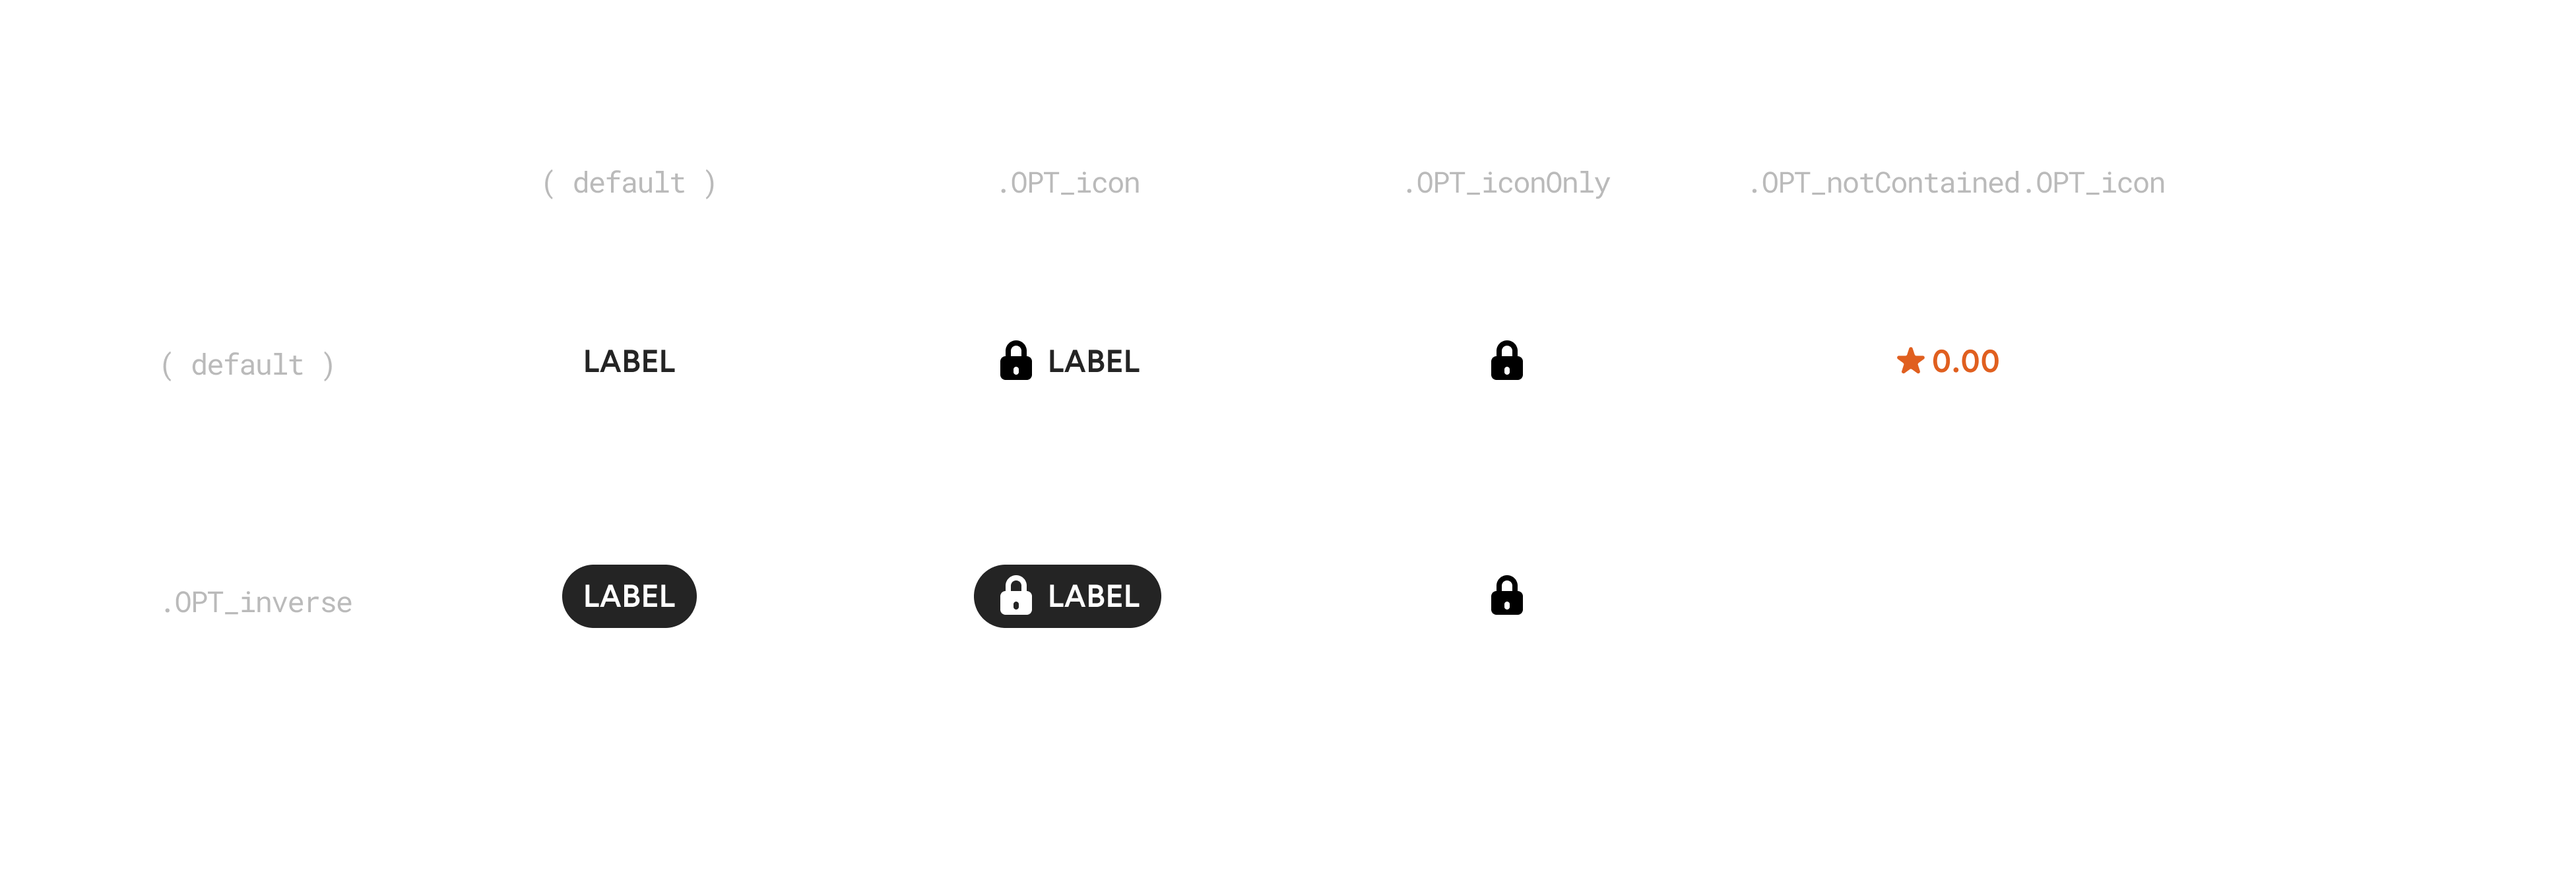
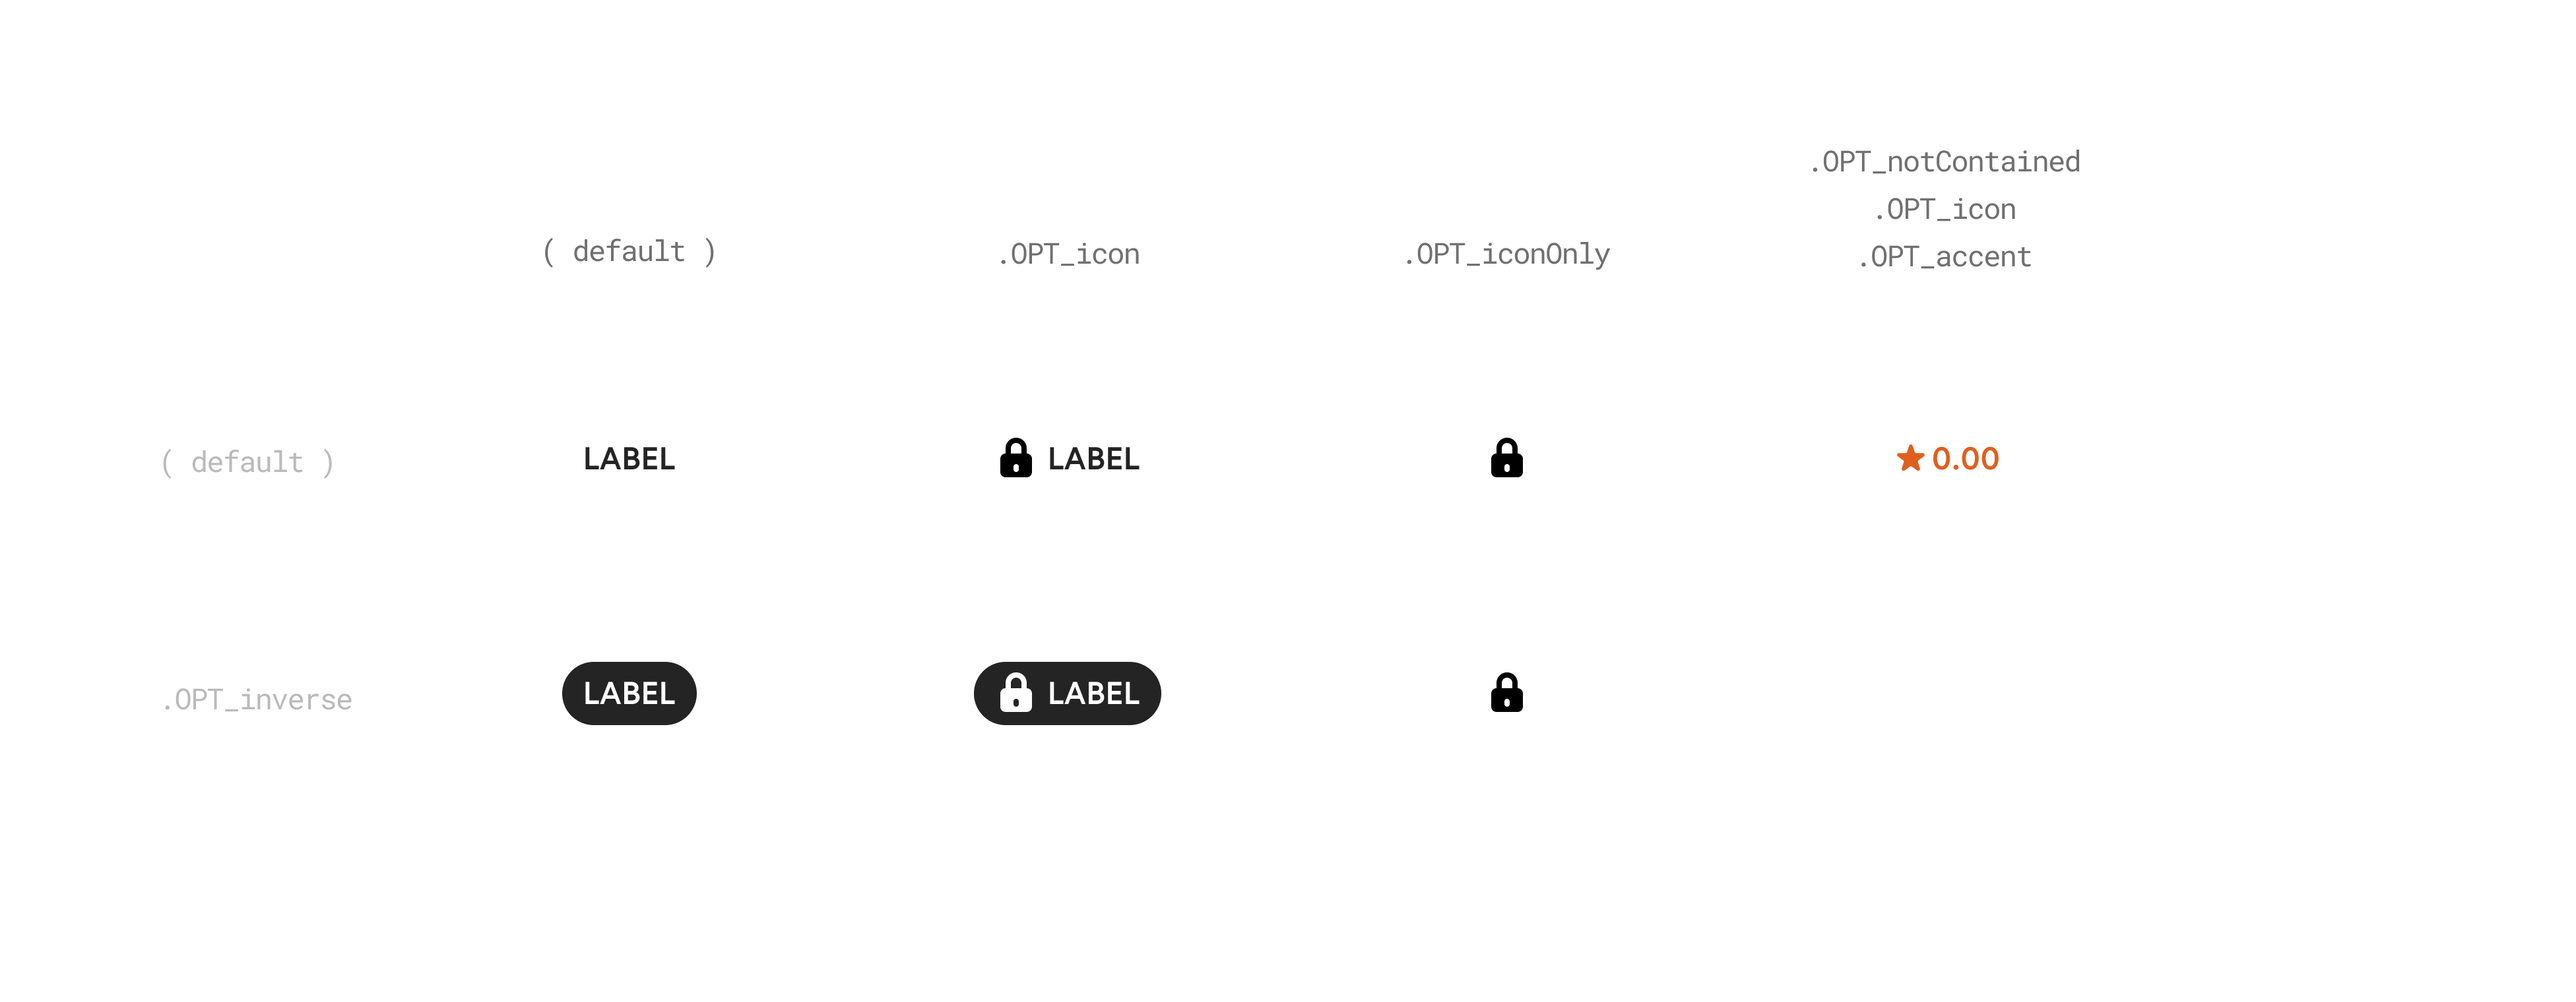
chip page update

diff --git a/docs/core/200-farfalle/070-Elements/150-Elements-Chip.md b/docs/core/200-farfalle/070-Elements/150-Elements-Chip.md
@@ -2014,6 +2014,8 @@ Aenean eu leo quam. Pellentesque ornare sem lacinia quam venenatis vestibulum. S
 
 ###### Options
 
+<br> <!--  FIXME -->
+
 ![Preview]({{site.baseurl}}/assets/projects/{{page.project_id}}/images/YPL-DOC-FFL.E0001-preview_02.png){: .darkenabled}
 
 
@@ -2021,48 +2023,40 @@ Aenean eu leo quam. Pellentesque ornare sem lacinia quam venenatis vestibulum. S
   <!-- <caption>my caption</caption> -->
   <thead>
     <tr>
-      <th>.OPT_icon</th>
       <th>.OPT_iconOnly</th>
       <th>.OPT_notContained</th>
+      <th>.OPT_accent</th>      
       <th>.OPT_inverse</th>
     </tr>
   </thead>
   <tbody>
     <tr>
       <td>
-        <span data-toolclip='"YPL.FFL.TKUI_D.{{ page.UID }}.HMN_chip.height.OPT_small": "YPL.FFL.TKUI_C.sizes.micro.1400.value"'><code class="language-plaintext highlighter-rouge">.height</code></span>
+        <span data-toolclip='"YPL.FFL.TKUI_D.{{ page.UID }}.HMN_chip.block.icon.marginRight.OPT_iconOnly": "{YPL.FFL.TKUI_C.spaces.none.value}"'><code class="language-plaintext highlighter-rouge">.block.icon.marginRight</code></span>
+        <span data-toolclip='"YPL.FFL.TKUI_D.{{ page.UID }}.HMN_chip.block.icon.marginRight.OPT_iconOnly": "{YPL.FFL.TKUI_C.spaces.none.value}"'><code class="language-plaintext highlighter-rouge">.block.icon.fringeRight</code></span>        
       </td>
-      <td><span class="dimmed">N/A</span></td>
-      <td><span class="">TODO</span></td>
-      <td><span class="dimmed">N/A</span></td>
+      <td>
+        <span data-toolclip='"YPL.FFL.TKUI_D.{{ page.UID }}.HMN_chip.bgColor.OPT_notContained": "{YPL.FFL.TKUI_C.colors.NONE.value}"'><code class="language-plaintext highlighter-rouge">.bgColor</code></span>
+      </td>
+      <td>
+        <span data-toolclip='"YPL.FFL.TKUI_D.{{ page.UID }}.HMN_chip.block.label.color.OPT_accent": "{YPL.FFL.TKUI_C.colors.orange.400.value"'><code class="language-plaintext highlighter-rouge">.block.label.color</code></span> 
+        <span data-toolclip='"YPL.FFL.TKUI_D.{{ page.UID }}.HMN_chip.block.icon.color.OPT_accent": "{YPL.FFL.TKUI_C.colors.orange.400.value}"'><code class="language-plaintext highlighter-rouge">.block.icon.color</code></span>    
+      </td>
+      <td>
+        <span data-toolclip='"YPL.FFL.TKUI_D.{{ page.UID }}.HMN_chip.bgColor.OPT_inverse": "{YPL.FFL.TKUI_C.colors.grey.900.value}"'><code class="language-plaintext highlighter-rouge">.bgColor</code></span> 
+        <span data-toolclip='"YPL.FFL.TKUI_D.{{ page.UID }}.HMN_chip.block.label.color.OPT_inverse": "{YPL.FFL.TKUI_C.colors.white.value}"'><code class="language-plaintext highlighter-rouge">.block.label.color</code></span> 
+        <span data-toolclip='"YPL.FFL.TKUI_D.{{ page.UID }}.HMN_chip.block.icon.color.OPT_inverse": "{YPL.FFL.TKUI_C.colors.white.value}"'><code class="language-plaintext highlighter-rouge">.block.icon.color</code></span>                
+      </td>
     </tr>
   </tbody>
 </table>
 
-###### Modes
-
+###### Modes (N/A)
 {: no_toc}
 
-<table class="type-01 headerNoUpperCase colBordered headFramed">
-  <thead>
-    <tr>
-      <th>.MD_dark</th>
-      <th>.MD_light</th>
-    </tr>
-  </thead>
-  <tbody>
-    <tr>
-      <td>
-        <span data-toolclip='"YPL.FFL.TKUI_D.{{ page.UID }}.HMN_chip.bgColor.[…].MD_dark": "YPL.FFL.TKUI_C.colors.teal.300.value"'><code class="language-plaintext highlighter-rouge">.height</code></span>
-
-      </td>
-      <td><span class="">TODO</span></td>
-    </tr>
-
-  </tbody>
-</table>
 
 ###### Breakpoints (N/A)
+{: no_toc}
 
 <!-- <table class="headerCentered headerNoUpperCase colBordered headFramed">
   <thead>
@@ -2121,36 +2115,43 @@ Playground · Pattern-siloed Tokens including all required Choices and Decisions
     "YPL.FFL.TKUI_D.{{ page.UID }}.HMN_chip.blockHeader.height": "{YPL.FFL.TKUI_C.sizes.micro.800.value}",
 
     // dependencies
-    "YPL.FFL.{{ page.UID }}.HMN_chip.block.icon": "{YPL.FFL.F0003-XXX.HMN_icon}", // select icon here (for example "YPL.FFL.F0003-028")
-    "YPL.FFL.{{ page.UID }}.HMN_chip.block.label": "{YPL.FFL.F0002-401.HMN_typo_europa-eyebrow}",
+    "YPL.FFL.TKUI_D.{{ page.UID }}.HMN_chip.block.icon": "{YPL.FFL.F0003-XXX.HMN_icon}", // select icon here (for example "YPL.FFL.F0003-028")
+    "YPL.FFL.TKUI_D.{{ page.UID }}.HMN_chip.block.label": "{YPL.FFL.F0002-401.HMN_typo_europa-eyebrow}",
 
 // colors & stuff
 
     "YPL.FFL.TKUI_D.{{ page.UID }}.HMN_chip.bgColor": "{YPL.FFL.TKUI_C.colors.white.value}"
-    // typo
     "YPL.FFL.TKUI_D.{{ page.UID }}.HMN_chip.block.label.color": "{YPL.FFL.TKUI_C.colors.black.value}",
+    "YPL.FFL.TKUI_D.{{ page.UID }}.HMN_chip.block.icon.color": "{YPL.FFL.TKUI_C.colors.black.value}",
 
 // micro layout
 
-
-    "YPL.FFL.{{ page.UID }}.HMN_chip.block.label.leading": "{YPL.FFL.TKUI_C.sizes.micro.800.value}", // TBD-FIXME
-    "YPL.FFL.{{ page.UID }}.HMN_chip.block.icon.width": "{YPL.FFL.TKUI_C.sizes.micro.800.value}", // TBD-FIXME
-    "YPL.FFL.{{ page.UID }}.HMN_chip.block.icon.height": "{YPL.FFL.TKUI_C.sizes.micro.800.value}", // TBD-FIXME
+    "YPL.FFL.TKUI_D.{{ page.UID }}.HMN_chip.block.label.leading": "{YPL.FFL.TKUI_C.sizes.micro.800.value}", // TBD-FIXME
+    "YPL.FFL.TKUI_D.{{ page.UID }}.HMN_chip.block.icon.width": "{YPL.FFL.TKUI_C.sizes.micro.800.value}", // TBD-FIXME
+    "YPL.FFL.TKUI_D.{{ page.UID }}.HMN_chip.block.icon.height": "{YPL.FFL.TKUI_C.sizes.micro.800.value}", // TBD-FIXME
+    "YPL.FFL.TKUI_D.{{ page.UID }}.HMN_chip.block.icon.marginRight": "{YPL.FFL.TKUI_C.spaces.xs.value}", 
+    "YPL.FFL.TKUI_D.{{ page.UID }}.HMN_chip.block.icon.fringeRight": "{YPL.FFL.TKUI_C.spaces.xs.value}", 
 
 
 // variations
 
     // options
 
-      // .OPT_icon
       // .OPT_inverse
+      "YPL.FFL.TKUI_D.{{ page.UID }}.HMN_chip.bgColor.OPT_inverse": "{YPL.FFL.TKUI_C.colors.grey.900.value}"
+      "YPL.FFL.TKUI_D.{{ page.UID }}.HMN_chip.block.label.color.OPT_inverse": "{YPL.FFL.TKUI_C.colors.white.value}",
+      "YPL.FFL.TKUI_D.{{ page.UID }}.HMN_chip.block.icon.color.OPT_inverse": "{YPL.FFL.TKUI_C.colors.white.value}",
+
       // .OPT_iconOnly
+      "YPL.FFL.TKUI_D.{{ page.UID }}.HMN_chip.block.icon.marginRight.OPT_iconOnly": "{YPL.FFL.TKUI_C.spaces.none.value}",
+      "YPL.FFL.TKUI_D.{{ page.UID }}.HMN_chip.block.icon.fringeRight.OPT_iconOnly": "{YPL.FFL.TKUI_C.spaces.none.value}",       
+
       // .OPT_notContained
+      "YPL.FFL.TKUI_D.{{ page.UID }}.HMN_chip.bgColor.OPT_notContained": "{YPL.FFL.TKUI_C.colors.none.value}", // TBD
 
-    // modes
-
-      // .MD_dark
-      // .MD_light
+      // .OPT_accent      
+      "YPL.FFL.TKUI_D.{{ page.UID }}.HMN_chip.block.label.color.OPT_accent": "{YPL.FFL.TKUI_C.colors.orange.400.value}",
+      "YPL.FFL.TKUI_D.{{ page.UID }}.HMN_chip.block.icon.color.OPT_accent": "{YPL.FFL.TKUI_C.colors.orange.400.value}",      
 }
 {% endhighlight %}
 

diff --git a/docs/core/200-farfalle/090-Patterns/100-Poster-Card.md b/docs/core/200-farfalle/090-Patterns/100-Poster-Card.md
@@ -3111,6 +3111,9 @@ Playground · Pattern-siloed Tokens including all required Choices and Decisions
       // .blockFooter
       "YPL.FFL.P0001.HMN_posterCard.blockFooter.eyebrow": "{YPL.FFL.F0002-401.HMN_typo_europa-eyebrow}", // instantiation TBD
       "YPL.FFL.P0001.HMN_posterCard.blockFooter.switchButton": "{YPL.FFL.E0003-003.HMN_button-switchIcon}", // TBD
+      // .OPT_layout2
+      "YPL.FFL.P0001.HMN_posterCard.blockCopy.paragraph": "{YPL.FFL.F0002-103.HMN_typo_europa-p_s_regular}", // instantiation
+      "YPL.FFL.TKUI_D.P0001.HMN_posterCard.blockCopy.paragraph.color": "{YPL.FFL.TKUI_C.colors.white.value}",            
 
   // colors & stuff
 
@@ -3136,13 +3139,9 @@ Playground · Pattern-siloed Tokens including all required Choices and Decisions
 
       // OPT_layout2
 
-        // dependencies
-        "YPL.FFL.P0001.HMN_posterCard.blockCopy.paragraph": "{YPL.FFL.F0002-103.HMN_typo_europa-p_s_regular}", // instantiation
-        // decisions
         "YPL.FFL.TKUI_D.P0001.HMN_posterCard.gradient.OPT_layout2": "{YPL.FFL.TKUI_C.gradients.overlay.black.TL_BR.value}",
-        "YPL.FFL.TKUI_D.P0001.HMN_posterCard.blockCopy.paragraph.color": "{YPL.FFL.TKUI_C.colors.white.value}",
-        "YPL.FFL.TKUI_D.P0001.HMN_posterCard.heading.margin": "{YPL.FFL.TKUI_C.sizes.micro.400.value}",
-        "YPL.FFL.TKUI_D.P0001.HMN_posterCard.blockFooter.eyebrow.paddingLeft": "{YPL.FFL.TKUI_C.spaces.none.value}", // TBD
+        "YPL.FFL.TKUI_D.P0001.HMN_posterCard.heading.margin.OPT_layout2": "{YPL.FFL.TKUI_C.sizes.micro.400.value}",
+        "YPL.FFL.TKUI_D.P0001.HMN_posterCard.blockFooter.eyebrow.paddingLeft.OPT_layout2": "{YPL.FFL.TKUI_C.spaces.none.value}", // TBD
 
       // OPT_small
 
